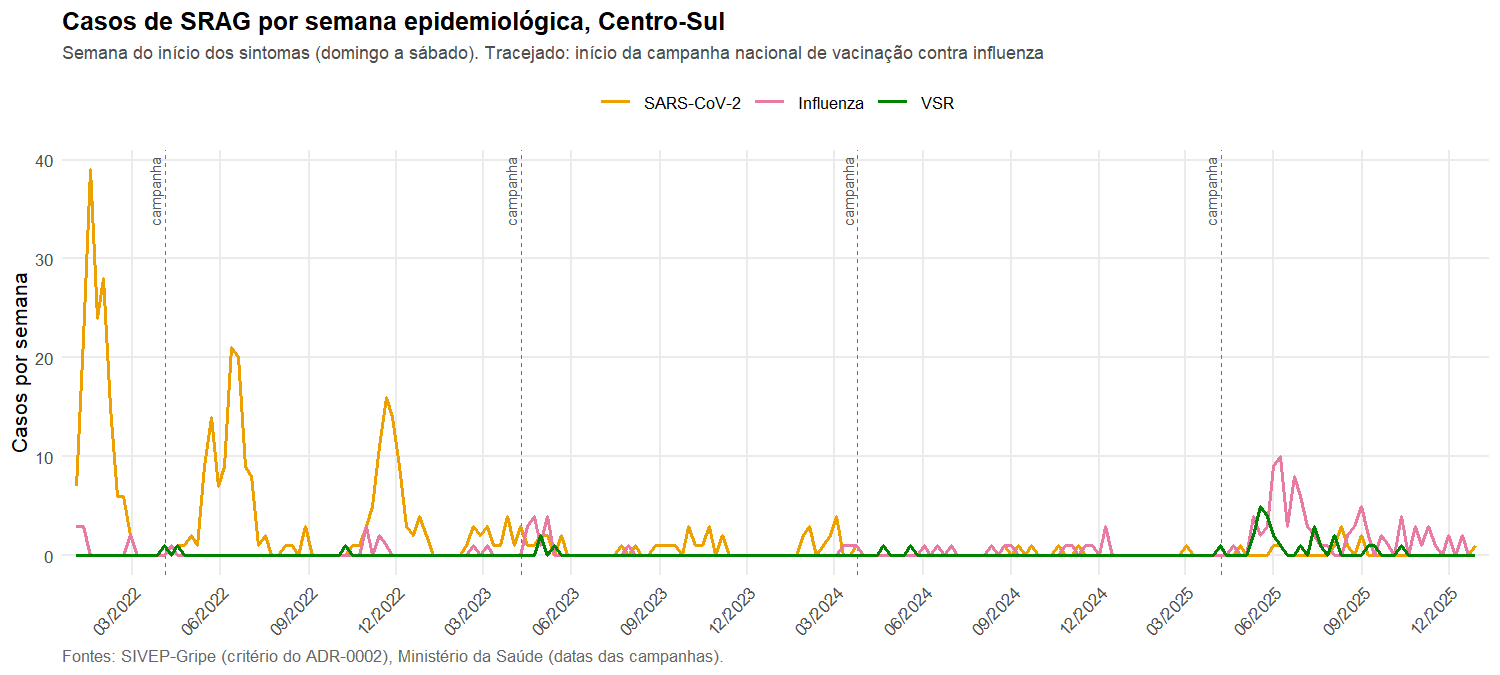
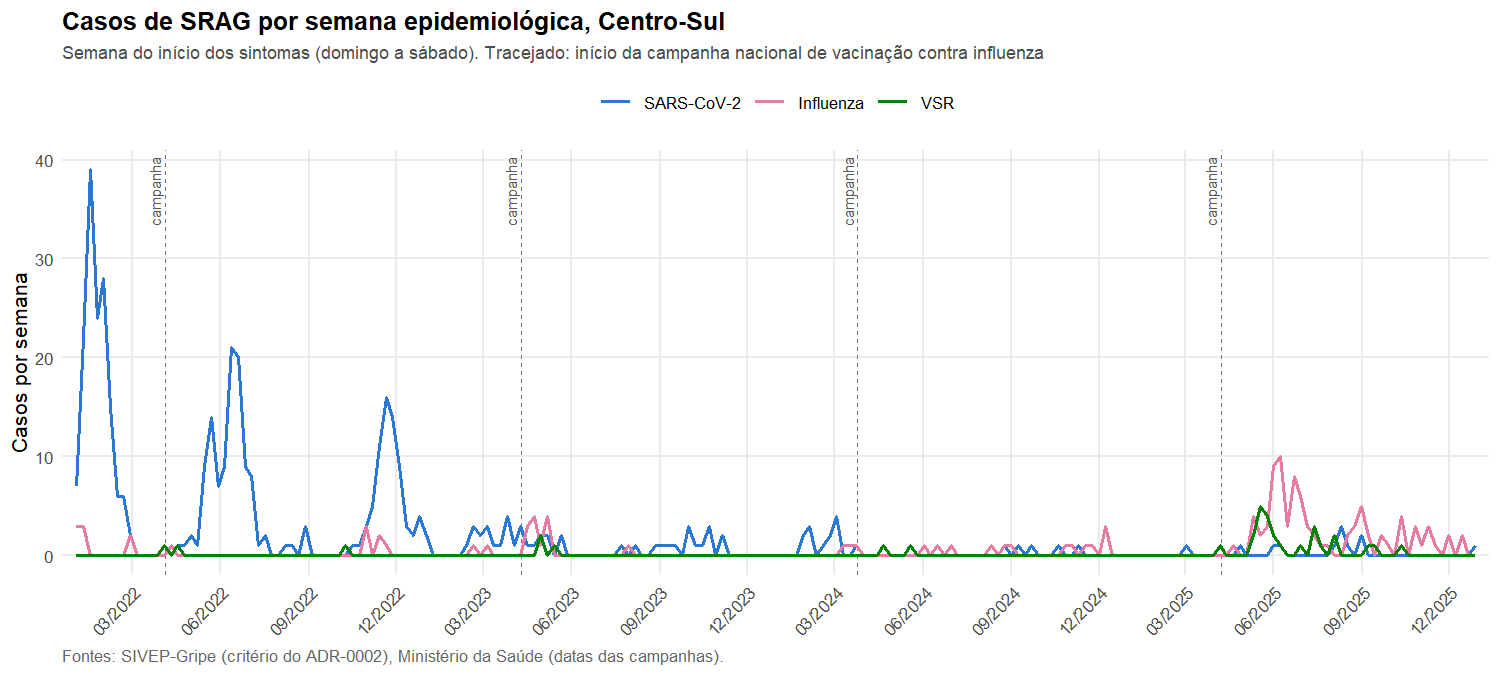
CS-054 a CS-056: SARS-CoV-2 em azul, contorno do estado e paineis por virus
Pedidos da analista de 2026-09-26. SARS-CoV-2 passa de amarelo para azul
(#2a78d6) em todas as figuras; todo mapa ganha o contorno do estado em
cinza-escuro; seis paineis novos, um por virus, com os 4 anos em 2 x 2
(incidencia e LISA). Mapas 39 -> 45. Suite 795/795 em 23 arquivos.

diff --git a/docs/release-history/cs-054-cs-056-mapas-analista.md b/docs/release-history/cs-054-cs-056-mapas-analista.md
@@ -1,0 +1,51 @@
+# CS-054, CS-055, CS-056 — SARS-CoV-2 em azul, contorno do estado, painéis por vírus
+
+- **Data:** 2026-09-26
+- **Modelo · esforço:** Opus · medium (acordado com o dono)
+- **Origem:** pedidos da analista, recebidos em 2026-09-26 depois do pacote de resultados do mesmo dia:
+  cor do SARS-CoV-2 "anteriormente rosa" para azul; contorno cinza-escuro em volta do estado;
+  painéis de mapas organizados por agente (um painel por vírus, com todos os anos).
+
+## Verificação com número
+
+| Critério de aceite | Resultado |
+|---|---|
+| SARS-CoV-2 azul | `CORES_AGENTE["sarscov2"]` = `#2a78d6` (posição 1 da paleta categórica validada); rampa `#eef4fc` → `#2a78d6` → `#0b2e5a`, claridade Lab 95,6 → 18,7 estritamente decrescente; teste novo: matiz HCL do SARS-CoV-2 entre 220° e 270° e nenhum outro vírus nesse intervalo |
+| Distinção entre vírus | validador da skill dataviz, todos os pares: pior par azul × magenta ΔE 13,0 sob protanopia (meta ≥ 8; era 16,2) e 27,5 em visão normal (piso 15; era 19,6) |
+| Contorno do estado | `COR_CONTORNO_ESTADO` `#333333`, 0,5 nos mapas isolados, 0,25 nos painéis 3 × 4, 0,35 nos 2 × 2, 0,7 no mapa de referência das regiões; presente nos 45 mapas; testes conferem a camada nos mapas de incidência, LISA, regional e de referência |
+| União sem fresta | malha real: 577 partes (continente e ilhas), 0 buracos; união plana em UTM 23S 1,3 s contra 6,4 s na esférica; teste: 16 quadrados colados → 1 polígono, mesma área |
+| Painéis por vírus | 6 arquivos novos, `painel_incidencia_<vírus>.png` e `painel_lisa_<vírus>.png`, 4 anos em 2 × 2, 300 dpi; incidência na mesma escala dos 4 anos (raiz quadrada); LISA com o nº de confirmados no título de cada ano (VSR 2024: 5, igual ao mapa isolado) |
+| Mapas gerados | 45 (eram 39), contados pela própria etapa 06 |
+| Pipeline | `run.R --limpar`: 8 etapas em 235 s |
+| Testes | 795/795 expectativas em 23 arquivos, 0 falhas, 0 pulados (eram 757; inclui o CS-057) |
+
+## Decisões
+
+- **Qual vírus fica azul.** A analista escreveu "SARS-CoV-2, anteriormente rosa", mas no pacote o
+  SARS-CoV-2 era amarelo e a influenza é que era rosa. O dono decidiu: vale o nome do vírus
+  (citado duas vezes), não a cor lembrada. Influenza segue rosa, VSR segue verde.
+- **Concessão registrada: azul do SARS-CoV-2 × azul do Baixo-Baixo do LISA.** Ficam quase iguais
+  (ΔE 7,8). Mantive o LISA na convenção do GeoDa (vermelho = Alto-Alto, azul = Baixo-Baixo), que
+  quem lê estatística espacial reconhece, porque os dois azuis nunca dividem uma figura: mapa de
+  LISA não usa cor de vírus. O guia de cores e o parágrafo do relatório agora dizem isso. Se a
+  analista preferir, a saída é trocar o Baixo-Baixo, não o vírus. Isso reabre em parte a regra do
+  CS-046 ("nenhuma cor de vírus reaparece com outro significado"): a cor exata não reaparece (o
+  teste continua valendo), o matiz sim.
+- **Contorno calculado uma vez** na etapa 06 e passado a todos os mapas (parâmetro `contorno`);
+  as funções calculam sozinhas se ninguém passar, para os testes e usos avulsos.
+- **Painéis 2 × 2** (não 1 × 4): cabem numa página A4 em retrato. O painel 3 × 4 continua no
+  relatório como visão de conjunto; os por vírus são arquivos para a dissertação.
+
+## O que não mudou, de propósito
+
+- Paleta do LISA e das regiões; influenza e VSR.
+- O mapa interativo do `app.R` (leaflet): não ganhou contorno; o mapa de fundo já traz o limite
+  estadual.
+- O relatório não inclui os 6 painéis novos (seriam 6 figuras de página inteira repetindo o 3 × 4).
+
+## Erros do caminho
+
+1. O subtítulo do guia de cores, mais longo, saiu cortado na borda da figura: quebrado em duas linhas.
+2. Nos painéis 2 × 2, o subtítulo encostava no título do primeiro ano: margem inferior de 12 pt.
+3. Script Python passado por heredoc do bash não casou "Litorânea" num arquivo de teste; a
+   edição foi refeita pela ferramenta de edição.

diff --git a/docs/revisao-graficos.md b/docs/revisao-graficos.md
@@ -17,6 +17,7 @@ ordem; legenda sempre que há mais de uma série; nada que dependa só de cor. R
 | Bruta × suavizada (dispersão) | quanto a suavização puxa os pequenos | mantida | idem |
 | Painel LISA (3 × 4) | onde há agrupamento, por vírus e ano | mantido | cor cheia/clara para confirmado/indicativo, hachura para instável (não depende só de cor) |
 | Mapa LISA isolado (VSR 2024) | quais municípios formam o agrupamento confirmado | **trocado**: rótulos retirados do mapa | Itaboraí e Tanguá se sobrepunham e o preto sumia sobre o vermelho; o subtítulo já nomeia os confirmados. O "4,6 esperados por acaso" era fixo no código e passou a ser calculado |
+| **Painéis por vírus (6: incidência e LISA × 3 vírus)** | um vírus de cada vez, os 4 anos | **novos** (CS-056, pedido da analista) | grade 2 × 2 cabe numa página A4 em retrato, melhor para a dissertação do que a linha de 4 do painel 3 × 4; a incidência usa a escala comum aos 4 anos do painel 3 × 4; no LISA, o título de cada ano diz quantos municípios ficaram confirmados |
 | Mapa de referência das regiões | qual município está em qual região | mantido | tons pastel + nome escrito + tabela (não depende só de cor) |
 | Mapas regionais (12) | taxa por região | mantidos | nome e taxa escritos nas 9 regiões |
 | Série semanal do estado (3 linhas) | a magnitude relativa dos três vírus no tempo | mantida | é a única figura em que os três estão na mesma escala; o pico de 2022 é o fato |
@@ -25,6 +26,9 @@ ordem; legenda sempre que há mais de uma série; nada que dependa só de cor. R
 | Fichas não encerradas por semana | há subida de não encerradas no fim do ano? | **trocada**: eixo duplo → dois painéis empilhados | barra e linha em dois eixos são o erro clássico: os cruzamentos entre elas não significam nada, e a razão entre as escalas é arbitrária. Dois painéis com o mesmo eixo do tempo respondem a mesma pergunta sem esse artefato |
 | Versões do banco (diferença de casos) | quanto os números mudam entre versões | mantida | já trocada no CS-048 de % para diferença absoluta, pelo mesmo motivo (um eixo de 99,9 % a 100,1 % faz 3 casos parecerem uma oscilação) |
 | Leitos × taxa (dispersão, 8 painéis) | a taxa acompanha a oferta de leitos? | mantida | eixo x em raiz quadrada porque metade dos municípios tem 0 leito de UTI; rho e IC escritos no painel |
+
+Mudanças de 2026-09-26 (pedidos da analista) em todas as figuras: SARS-CoV-2 passou de amarelo
+para azul (CS-054) e todo mapa ganhou o contorno do estado em cinza-escuro (CS-055).
 
 ## Fora do relatório
 

diff --git a/docs/trilha-desenvolvimento.md b/docs/trilha-desenvolvimento.md
@@ -278,7 +278,8 @@ Testes verificam o contrato, não a implementação.
                     tabela LISA 92 × 12 com Ii, p_perm, p_fdr, quadrante, nivel
                     (confirmado/indicativo/ns), classe, instavel; + bruta e Rook (ADR-0004)
                     + regional: Moran global nas 9 regiões, descritivo, sem LISA (CS-030)
-06_visualizacoes.R ► resultados/mapas/*.png   (CS-019 + CS-030, entregue: 24 mapas + 2 painéis + 12 regionais)
+06_visualizacoes.R ► resultados/mapas/*.png   (CS-019 + CS-030, entregue: 24 mapas + 2 painéis + 12 regionais
+                    + 6 painéis por vírus (CS-056) + referência das regiões (CS-050) = 45; contorno do estado em todos, CS-055)
                   + resultados/estatistica/serie_semanal_*.png (CS-032: estado + 9 regiões + painel)
                   + resultados/estatistica/nao_encerrados_2025.png (CS-035)
                   + resultados/estatistica/leitos_x_incidencia.png (CS-034)
